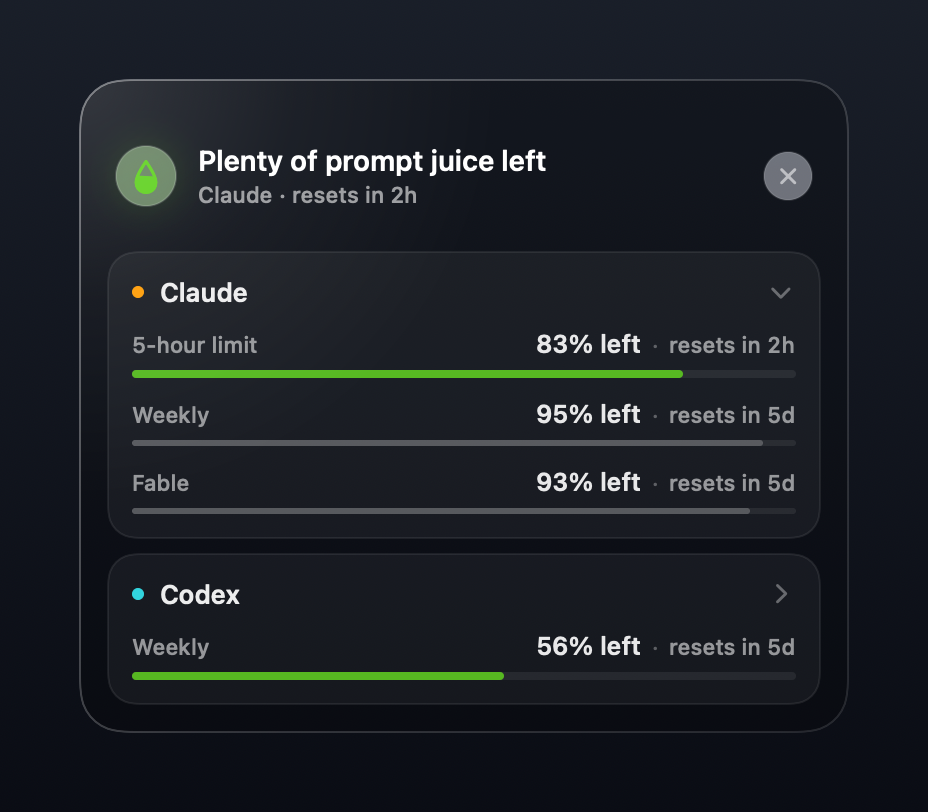
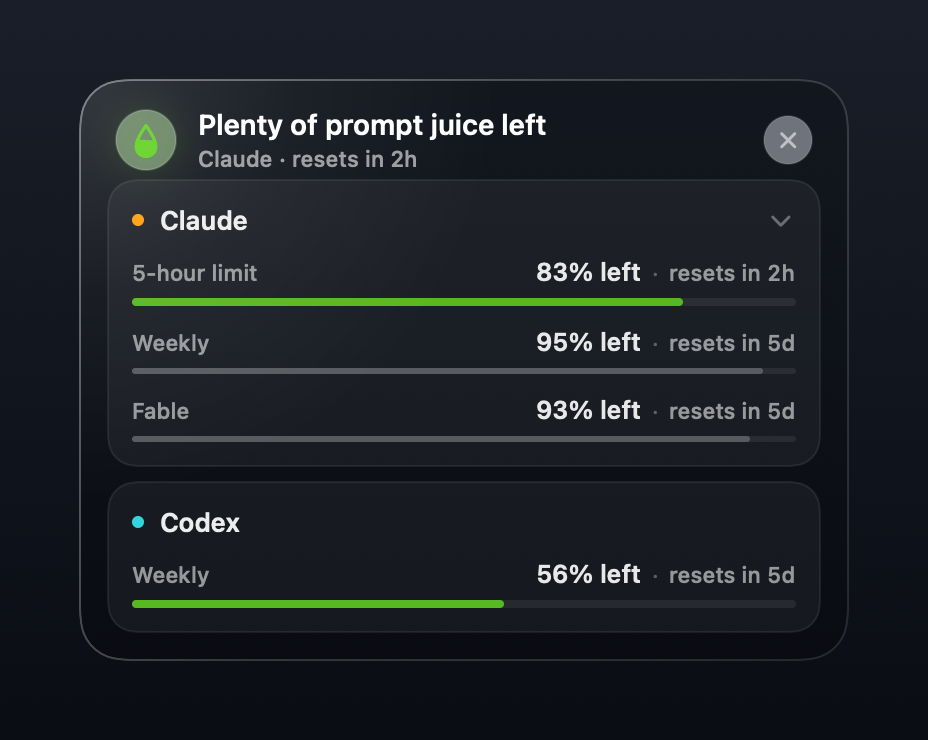
fix(ui): tighten panel chrome and disclosure behavior

diff --git a/app/PromptJuice/UI/JuicebarPanelController.swift b/app/PromptJuice/UI/JuicebarPanelController.swift
@@ -115,6 +115,7 @@ enum PanelClickRouter {
         in bounds: NSRect,
         providers: [UsageProvider],
         windowCounts: [Int] = [],
+        expandableProviders: Set<UsageProvider> = [],
         showsNotificationPrime: Bool = false
     ) -> PanelClickTarget? {
         let width = bounds.width
@@ -140,23 +141,23 @@ enum PanelClickRouter {
             }
         }
 
-        for (index, row) in rowRects(
+        for row in rowRects(
             in: bounds,
             providers: providers,
             windowCounts: windowCounts
-        ).enumerated() {
+        ) {
             if contains(point, in: row.rect) {
-                let measured = index < windowCounts.count && windowCounts[index] > 0
-                if measured {
-                    let chevron = NSRect(
-                        x: row.rect.maxX - PromptJuicePanelMetrics.cardPadding - 24,
-                        y: row.rect.minY + PromptJuicePanelMetrics.cardPadding - 6,
-                        width: 30,
-                        height: 30
-                    )
-                    if contains(point, in: chevron) {
-                        return .disclosure(row.provider)
-                    }
+                let header = NSRect(
+                    x: row.rect.minX,
+                    y: row.rect.minY,
+                    width: row.rect.width,
+                    height: PromptJuicePanelMetrics.cardPadding
+                        + PromptJuicePanelMetrics.cardHeaderHeight
+                        + PromptJuicePanelMetrics.cardContentSpacing
+                )
+                if expandableProviders.contains(row.provider),
+                   contains(point, in: header) {
+                    return .disclosure(row.provider)
                 }
                 return .provider(row.provider)
             }
@@ -186,6 +187,7 @@ private protocol PanelContentRootView: PanelToolTipRefreshing {
 private final class ClickReadyHostingView<Content: View>: NSHostingView<Content>, PanelToolTipRefreshing {
     private let providers: () -> [UsageProvider]
     private let windowCounts: () -> [Int]
+    private let expandableProviders: () -> Set<UsageProvider>
     private let showsNotificationPrime: () -> Bool
     private let toolTipProvider: (UsageProvider) -> String?
     private let onPanelClick: (PanelClickTarget) -> Void
@@ -207,6 +209,7 @@ private final class ClickReadyHostingView<Content: View>: NSHostingView<Content>
     required init(rootView: Content) {
         self.providers = { [] }
         self.windowCounts = { [] }
+        self.expandableProviders = { [] }
         self.showsNotificationPrime = { false }
         self.toolTipProvider = { _ in nil }
         self.onPanelClick = { _ in }
@@ -222,6 +225,7 @@ private final class ClickReadyHostingView<Content: View>: NSHostingView<Content>
         rootView: Content,
         providers: @escaping () -> [UsageProvider],
         windowCounts: @escaping () -> [Int],
+        expandableProviders: @escaping () -> Set<UsageProvider>,
         showsNotificationPrime: @escaping () -> Bool,
         toolTipProvider: @escaping (UsageProvider) -> String?,
         onPanelClick: @escaping (PanelClickTarget) -> Void,
@@ -232,6 +236,7 @@ private final class ClickReadyHostingView<Content: View>: NSHostingView<Content>
     ) {
         self.providers = providers
         self.windowCounts = windowCounts
+        self.expandableProviders = expandableProviders
         self.showsNotificationPrime = showsNotificationPrime
         self.toolTipProvider = toolTipProvider
         self.onPanelClick = onPanelClick
@@ -385,6 +390,7 @@ private final class ClickReadyHostingView<Content: View>: NSHostingView<Content>
             in: bounds,
             providers: providers(),
             windowCounts: windowCounts(),
+            expandableProviders: expandableProviders(),
             showsNotificationPrime: showsNotificationPrime()
         )
     }
@@ -911,6 +917,9 @@ final class JuicebarPanelController: NSObject {
             windowCounts: { [weak viewModel] in
                 viewModel?.visibleWindowCounts ?? []
             },
+            expandableProviders: { [weak viewModel] in
+                viewModel?.expandableProviders ?? []
+            },
             showsNotificationPrime: { [weak viewModel] in
                 viewModel?.shouldOfferUseSoonNotificationPrime ?? false
             },
@@ -971,6 +980,9 @@ final class JuicebarPanelController: NSObject {
                 return
             }
         case .disclosure(let provider):
+            guard viewModel.expandableProviders.contains(provider) else {
+                return
+            }
             viewModel.toggleExpanded(provider)
             applyPanelFrameIfVisible(force: true)
         case .enableNotifications:
@@ -1130,9 +1142,13 @@ final class JuicebarPanelController: NSObject {
         case .anchored:
             position(panel, size: size)
         case .pinned:
+            let topAnchoredOrigin = NSPoint(
+                x: panel.frame.minX,
+                y: panel.frame.maxY - size.height
+            )
             applyPinnedPanelFrame(
                 panel,
-                origin: panel.frame.origin,
+                origin: topAnchoredOrigin,
                 size: size,
                 force: force,
                 persist: true

diff --git a/app/PromptJuice/UI/PromptJuicePanelView.swift b/app/PromptJuice/UI/PromptJuicePanelView.swift
@@ -3,12 +3,10 @@ import SwiftUI
 enum PromptJuicePanelMetrics {
     static let width: CGFloat = 384
     static let plainRowHeight: CGFloat = 48
-    static let rowSpacing: CGFloat = 7
     static let contentPadding: CGFloat = 14
     static let contentSpacing: CGFloat = 10
     static let panelCornerRadius: CGFloat = 22
-    static let chromeHeight: CGFloat = 68
-    static let headerHeight: CGFloat = 68
+    static let headerHeight: CGFloat = 32
     static let cardsTopSpacing: CGFloat = 4
     static let cardSpacing: CGFloat = 8
     static let cardHeaderHeight: CGFloat = 16
@@ -28,16 +26,6 @@ enum PromptJuicePanelMetrics {
     static let primeButtonSpacing: CGFloat = 8
     static let primeEnableButtonWidth: CGFloat = 172
     static let primeDismissButtonWidth: CGFloat = 76
-
-    static func height(rowCount: Int, showsNotificationPrime: Bool = false) -> CGFloat {
-        let rows = max(rowCount, 1)
-        let rowBlockHeight = CGFloat(rows) * plainRowHeight
-            + CGFloat(max(rows - 1, 0)) * rowSpacing
-        let primeBlockHeight = showsNotificationPrime
-            ? contentSpacing + primeBannerHeight
-            : 0
-        return chromeHeight + rowBlockHeight + primeBlockHeight
-    }
 
     static func cardHeight(windowCount: Int) -> CGFloat {
         guard windowCount > 0 else { return plainRowHeight }
@@ -267,6 +255,10 @@ private struct ProviderUsageRow: View {
         viewModel.visibleWindows(for: snapshot)
     }
 
+    private var hasDisclosure: Bool {
+        viewModel.measuredWindows(for: snapshot).count > 1
+    }
+
     private var measuredCard: some View {
         VStack(alignment: .leading, spacing: PromptJuicePanelMetrics.cardContentSpacing) {
             HStack(spacing: 8) {
@@ -277,14 +269,16 @@ private struct ProviderUsageRow: View {
                     .font(.system(size: 13, weight: .semibold))
                     .foregroundStyle(.white.opacity(0.92))
                 Spacer(minLength: 0)
-                Image(systemName: "chevron.right")
-                    .font(.system(size: 11, weight: .semibold))
-                    .foregroundStyle(.white.opacity(0.35))
-                    .rotationEffect(.degrees(viewModel.expandedProviders.contains(snapshot.provider) ? 90 : 0))
-                    .frame(width: 16, height: 16)
-                    .accessibilityLabel(viewModel.expandedProviders.contains(snapshot.provider)
-                        ? "Collapse \(snapshot.displayName) limits"
-                        : "Expand \(snapshot.displayName) limits")
+                if hasDisclosure {
+                    Image(systemName: "chevron.right")
+                        .font(.system(size: 11, weight: .semibold))
+                        .foregroundStyle(.white.opacity(0.35))
+                        .rotationEffect(.degrees(viewModel.expandedProviders.contains(snapshot.provider) ? 90 : 0))
+                        .frame(width: 16, height: 16)
+                        .accessibilityLabel(viewModel.expandedProviders.contains(snapshot.provider)
+                            ? "Collapse \(snapshot.displayName) limits"
+                            : "Expand \(snapshot.displayName) limits")
+                }
             }
             .frame(height: PromptJuicePanelMetrics.cardHeaderHeight)
 

diff --git a/app/PromptJuiceTests/PanelClickRouterTests.swift b/app/PromptJuiceTests/PanelClickRouterTests.swift
@@ -117,9 +117,10 @@ final class PanelClickRouterTests: XCTestCase {
         XCTAssertLessThan(rects.enable.maxX, bounds.width)
     }
 
-    func testDisclosureHitRectsFollowExpandedCardHeights() {
+    func testExpandableProviderHeaderRoutesToDisclosureAcrossItsFullWidth() {
         let providers: [UsageProvider] = [.claude, .codex]
         let counts = [3, 1]
+        let expandableProviders: Set<UsageProvider> = [.claude]
         let bounds = NSRect(
             x: 0,
             y: 0,
@@ -137,18 +138,49 @@ final class PanelClickRouterTests: XCTestCase {
         ])
         XCTAssertGreaterThan(rows[1].rect.minY, rows[0].rect.maxY)
 
-        for row in rows {
-            let chevron = NSPoint(x: row.rect.maxX - 20, y: row.rect.minY + 20)
+        for x in [rows[0].rect.minX + 8, rows[0].rect.midX, rows[0].rect.maxX - 8] {
             XCTAssertEqual(
                 PanelClickRouter.target(
-                    at: chevron,
+                    at: NSPoint(x: x, y: rows[0].rect.minY + 20),
                     in: bounds,
                     providers: providers,
-                    windowCounts: counts
+                    windowCounts: counts,
+                    expandableProviders: expandableProviders
                 ),
-                .disclosure(row.provider)
+                .disclosure(.claude)
             )
         }
+
+        XCTAssertEqual(
+            PanelClickRouter.target(
+                at: NSPoint(x: rows[0].rect.midX, y: rows[0].rect.maxY - 12),
+                in: bounds,
+                providers: providers,
+                windowCounts: counts,
+                expandableProviders: expandableProviders
+            ),
+            .provider(.claude)
+        )
+        XCTAssertEqual(
+            PanelClickRouter.target(
+                at: NSPoint(x: rows[1].rect.maxX - 20, y: rows[1].rect.minY + 20),
+                in: bounds,
+                providers: providers,
+                windowCounts: counts,
+                expandableProviders: expandableProviders
+            ),
+            .provider(.codex)
+        )
+        XCTAssertEqual(
+            PanelClickRouter.target(
+                at: NSPoint(x: rows[1].rect.minX + 8, y: rows[1].rect.minY + 20),
+                in: bounds,
+                providers: providers,
+                windowCounts: counts,
+                expandableProviders: [.claude, .codex]
+            ),
+            .disclosure(.codex)
+        )
     }
 
     private func assertSingleProvider(_ provider: UsageProvider) {

diff --git a/app/PromptJuiceTests/JuicebarPanelControllerTests.swift b/app/PromptJuiceTests/JuicebarPanelControllerTests.swift
@@ -4,7 +4,7 @@ import XCTest
 
 @MainActor
 final class JuicebarPanelControllerTests: XCTestCase {
-    func testDisclosurePersistsPerProviderAndResizesPanel() async {
+    func testDisclosurePersistsForExpandableProviderAndKeepsPinnedTopEdgeFixed() async throws {
         let fixture = makeFixture()
         fixture.store.usageSourceMode = .fixture
         defer { fixture.defaults.removePersistentDomain(forName: fixture.suiteName) }
@@ -20,19 +20,28 @@ final class JuicebarPanelControllerTests: XCTestCase {
 
         let collapsedHeight = PromptJuicePanelMetrics.height(windowCounts: [1, 1])
         await waitUntil { controller.panelFrameForTesting?.height == collapsedHeight }
+        controller.pin()
+        let collapsedFrame = try XCTUnwrap(controller.panelFrameForTesting)
 
         controller.clickTargetForTesting(.disclosure(.claude))
         let expandedHeight = PromptJuicePanelMetrics.height(windowCounts: [2, 1])
         await waitUntil { controller.panelFrameForTesting?.height == expandedHeight }
+        let expandedFrame = try XCTUnwrap(controller.panelFrameForTesting)
+        XCTAssertEqual(expandedFrame.maxY, collapsedFrame.maxY, accuracy: 0.5)
+        XCTAssertLessThan(expandedFrame.minY, collapsedFrame.minY)
         XCTAssertEqual(fixture.store.expandedProviders, [.claude])
         XCTAssertEqual(viewModel.visibleWindowCounts, [2, 1])
 
         let restored = PromptJuiceSettingsStore(defaults: fixture.defaults)
         XCTAssertEqual(restored.expandedProviders, [.claude])
         controller.clickTargetForTesting(.disclosure(.codex))
-        XCTAssertEqual(restored.expandedProviders, [.claude, .codex])
+        XCTAssertEqual(restored.expandedProviders, [.claude])
         controller.clickTargetForTesting(.disclosure(.claude))
-        XCTAssertEqual(restored.expandedProviders, [.codex])
+        await waitUntil { controller.panelFrameForTesting?.height == collapsedHeight }
+        let recollapsedFrame = try XCTUnwrap(controller.panelFrameForTesting)
+        XCTAssertEqual(recollapsedFrame.maxY, collapsedFrame.maxY, accuracy: 0.5)
+        XCTAssertEqual(recollapsedFrame.minY, collapsedFrame.minY, accuracy: 0.5)
+        XCTAssertTrue(restored.expandedProviders.isEmpty)
         XCTAssertEqual(viewModel.visibleWindowCounts, [1, 1])
     }
 

diff --git a/app/PromptJuice/Services/PromptJuiceViewModel.swift b/app/PromptJuice/Services/PromptJuiceViewModel.swift
@@ -273,6 +273,12 @@ final class PromptJuiceViewModel: ObservableObject {
         visibleSnapshots.map { visibleWindows(for: $0).count }
     }
 
+    var expandableProviders: Set<UsageProvider> {
+        Set(visibleSnapshots.compactMap { snapshot in
+            measuredWindows(for: snapshot).count > 1 ? snapshot.provider : nil
+        })
+    }
+
     var currentDate: Date { now() }
 
     var claudePresentation: ClaudeUsagePresentation {
